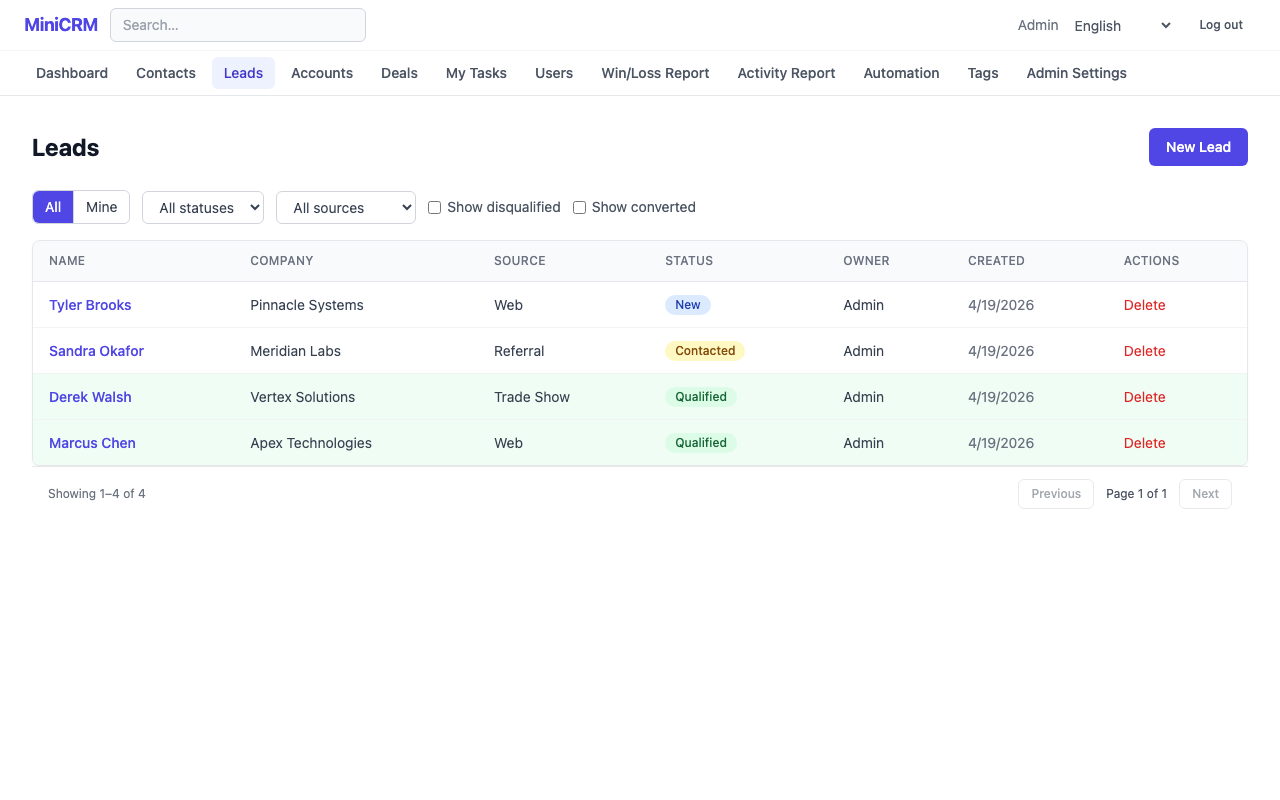
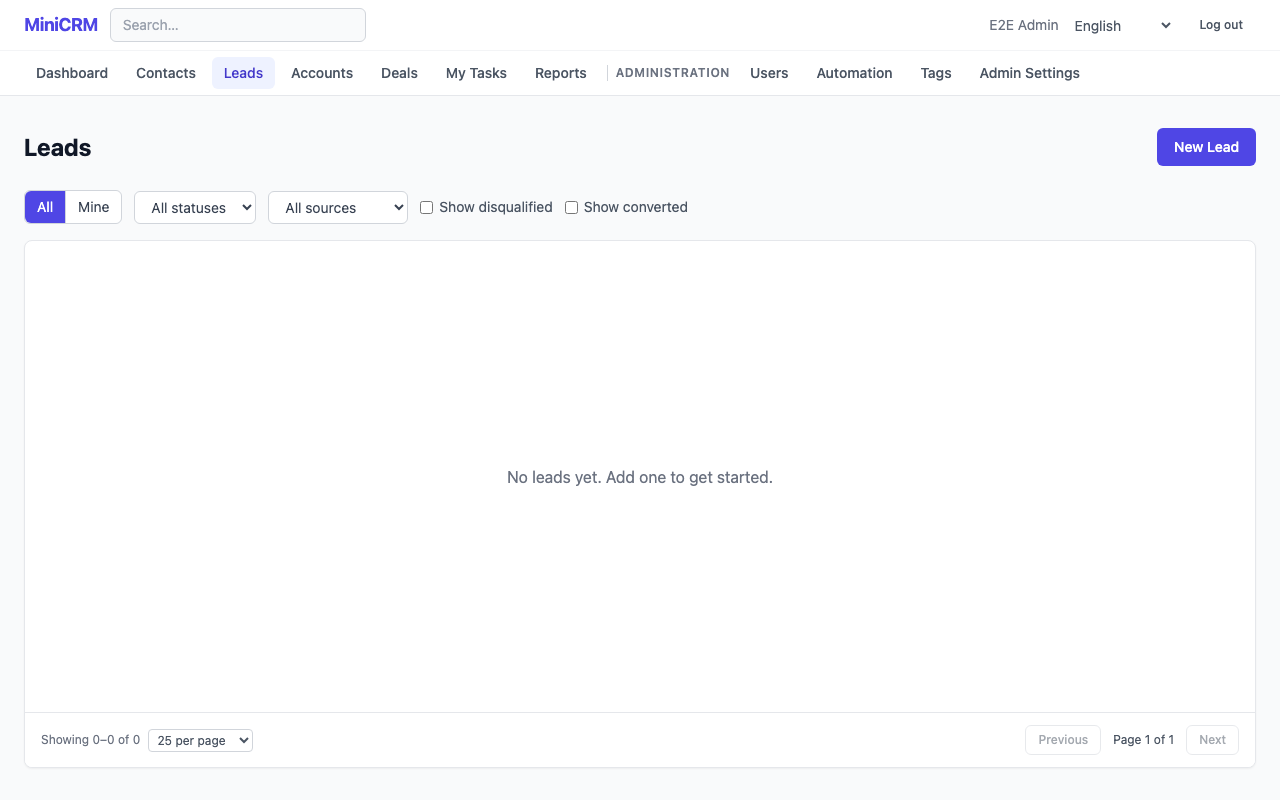
docs(MINCRM-361): update README and regenerate all 10 screenshots for features shipped since April 21
Regenerated all 10 docs/screenshots via scripts/screenshot.ts against the current UI.
Added Implemented Features entries for MINCRM-349 (optimistic locking), MINCRM-351
(three-way merge UI), MINCRM-354 (localized server errors), MINCRM-352 (rich notes),
MINCRM-343 (full-viewport list layout), MINCRM-342 (always-visible pagination + page-size
selector), MINCRM-356 (custom branding), and MINCRM-353 (extended demo data).
Updated screenshot alt text and caption prose to match the new UI.
Updated demo data volume description to reflect notes, custom fields, and exchange rates.

diff --git a/README.md b/README.md
@@ -28,19 +28,27 @@ npm run seed:demo
 
 ### Dashboard
 
-![MiniCRM dashboard showing pipeline value, deal counts, and recent activity](docs/screenshots/01-dashboard.png)
+![MiniCRM dashboard showing pipeline value, deal counts by stage, and overdue task indicators](docs/screenshots/01-dashboard.png)
 
 ### Pipeline Board
 
-![Deals pipeline board with Kanban columns for each stage](docs/screenshots/05-deals-board.png)
+![Deals pipeline board with Kanban columns for each stage, deal cards with currency-formatted values](docs/screenshots/05-deals-board.png)
 
 ### Contacts
 
-![Contacts list with search and filter controls](docs/screenshots/02-contacts.png)
+![Contacts list with full-viewport scroll, always-visible pagination, and page-size selector](docs/screenshots/02-contacts.png)
 
 ### Leads
 
-![Leads list with status badges and conversion workflow](docs/screenshots/07-leads.png)
+![Leads list with full-viewport scroll layout and always-visible pagination](docs/screenshots/07-leads.png)
+
+### Contact Detail
+
+![Contact detail page showing rich notes editor, optimistic-lock version indicator, and activity timeline](docs/screenshots/03-contact-detail.png)
+
+### Admin Settings
+
+![Admin Settings page with custom branding section — logo upload, brand color, font, and powered-by badge controls](docs/screenshots/10-admin-settings.png)
 
 ## Tech Stack
 
@@ -324,12 +332,15 @@ npm run remove:demo
 
 Both scripts read database connection from `.env` (`DB_USER`, `DB_PASSWORD`, `DB_NAME`, `DB_HOST`, `DB_PORT`).
 
-Demo data volume:
+Demo data volume (MINCRM-353):
 
-- 2 accounts (Acme Corporation, Globex Industries)
-- 20 contacts (10 per account)
-- 10 deals across Prospecting, Qualification, Proposal, Negotiation, Closed Won, and Closed Lost stages
-- 15 activities (calls, emails, notes, meetings, tasks) linked to deals and contacts
+- 2 accounts (Acme Corporation, Globex Industries — with parent/child relationship)
+- 20 contacts (10 per account, with addresses, social URLs, and custom field values)
+- 11 deals across all pipeline stages, including multi-currency deals (USD and GBP) with custom probability overrides
+- Activities (calls, emails, notes, meetings, tasks) linked to deals and contacts
+- 7 rich notes on contacts, accounts, and deals — covering team-visible and private visibility
+- Custom field definitions: LinkedIn URL, Lead Source Detail (select), Contract Signed Date, Estimated ARR; values populated on representative records
+- Exchange rate table seeded with USD, EUR, GBP, CAD, AUD, JPY, CHF rates
 
 All demo records have `is_demo = true`. The remove script deletes **only** rows where `is_demo = true`, so real data is never affected. Running the seed script twice is a no-op if demo data already exists.
 
@@ -359,6 +370,29 @@ All demo records have `is_demo = true`. The remove script deletes **only** rows 
 - Full CRUD REST API at `/api/leads`; conversion endpoint at `POST /api/leads/:id/convert`; status history at `GET /api/leads/:id/status-history`
 - Database migrations: `020_create_leads.js` adds `leads` and `lead_status_history` tables; adds `source_lead_id` FK column to `contacts` and `deals`
 
+### Optimistic Locking (MINCRM-349)
+
+- Every contact, account, deal, lead, and activity carries a `version` integer that increments on each update
+- PATCH endpoints require the client to echo back the current `version`; if the record was updated by someone else in the meantime the server returns **409** with the full current state in the response body, preventing silent overwrites
+- The version field is included in all read responses so the client always has the latest value after any successful save
+- Database migration: `048_add_version_to_all_entities.js` adds `version INTEGER NOT NULL DEFAULT 1` to `contacts`, `accounts`, `deals`, `leads`, and `activities`
+
+### Three-Way Merge UI for Conflicts (MINCRM-351)
+
+- When a 409 optimistic-lock conflict occurs on any edit form, a **Field Merge Modal** opens instead of showing a generic error
+- The modal presents a field-by-field comparison table with three value columns: **Original** (value when the page was opened), **Their change** (current server state), and **Your change** (what the user tried to save)
+- Conflicts where both sides changed the same field differently are highlighted and require the user to pick a value via radio buttons; non-conflicting changes are auto-resolved
+- String fields show character-level inline diffs (red strikethrough for removed text, green highlight for added text)
+- After resolving all conflicts the user clicks **Save resolved** to resubmit with the merged values, or **Discard my changes** to abandon the edit
+- Component: `client/src/components/FieldMergeModal.tsx`
+
+### Localized Server Error Messages (MINCRM-354)
+
+- Server error codes (e.g. `CONTACT_EMAIL_DUPLICATE`, `OPTIMISTIC_LOCK_CONFLICT`, `STAGE_HAS_OPEN_DEALS`) are translated to user-friendly messages in the active locale instead of showing raw code strings
+- The `resolveApiError()` utility in `client/src/utils/apiError.ts` looks up `errors.<CODE>` in the i18n catalog and falls back to `errors.generic` for unrecognized codes
+- All five supported locales (`en`, `zh-Hans`, `es`, `fr`, `de`) include translations for every domain error code
+- No API or migration changes — purely a client-side presentation improvement
+
 ### Contacts
 
 - List all contacts in a sortable table with owner column
@@ -373,6 +407,20 @@ All demo records have `is_demo = true`. The remove script deletes **only** rows 
 - Social profile URLs: `linkedin_url`, `twitter_x_url` — collapsible section in the form, displayed as clickable links on detail page when populated
 - Contact merge: merge two contact records into one via `POST /api/contacts/:id/merge`; winner survives, loser is deleted; per-field value choices; activities and deal links re-routed to winner; merged audit entry written
 - Full CRUD REST API at `/api/contacts`; merge endpoint: `POST /api/contacts/:id/merge`
+
+### Full-Viewport List Layout (MINCRM-343)
+
+- All list pages (Contacts, Accounts, Leads, Activities) use a full-viewport layout where the table scrolls internally and the nav bar, filters, and pagination remain fixed on screen
+- The table container fills all remaining vertical space between the filter bar and the pagination strip — no page-level scrollbar
+- Sticky table header stays visible while scrolling through long record lists
+- Layout is implemented with Tailwind flex column utilities (`h-screen`, `flex-1`, `min-h-0`, `overflow-auto`) applied consistently across all list pages
+
+### Always-Visible Pagination with Page-Size Selector (MINCRM-342)
+
+- Every list page shows a persistent pagination strip at the bottom of the viewport — it is never pushed off screen regardless of how many rows are loaded
+- The left side of the strip shows a record count summary ("Showing X–Y of Z records") and a **Rows per page** dropdown (10 / 25 / 50 / 100); changing the page size resets to page 1
+- The right side shows Previous / Next navigation buttons and a "Page N of M" indicator
+- Implemented in the shared `Pagination` component (`client/src/components/ui/Pagination.tsx`) used by all list pages
 
 ### Accounts
 
@@ -401,6 +449,21 @@ All demo records have `is_demo = true`. The remove script deletes **only** rows 
 - Pipeline stages are admin-configurable (see [Custom Pipeline Stages](#custom-pipeline-stages)); default stages are Prospecting → Qualification → Proposal → Negotiation → Closed Won / Closed Lost
 - Full CRUD REST API at `/api/deals`
 - Database migrations: `004_create_deals.js`, `005_create_deal_contacts.js`
+
+### Rich Notes on Entity Detail Pages (MINCRM-352)
+
+- Contact, Account, Deal, and Lead detail pages include a **Notes** section with a rich-text composer (Lexical editor)
+- Notes support an optional title, a body with inline formatting, and a **visibility** setting: **Team** (visible to all users, default), **Private** (visible only to the creator and admins), or **Public**
+- Private notes authored by another user appear with the body masked — the card shows the author and timestamp but not the content
+- Notes are paginated; each entity's notes feed is independent
+- Notes support soft-delete: deleted notes are removed from the feed but retained in the audit log
+- Audit events (`note_created`, `note_updated`, `note_deleted`, `note_visibility_changed`) are written in the same transaction as the note change; private note bodies appear as `[private note]` in the audit log
+- API endpoints:
+  - `GET /api/{entityType}/{entityId}/notes` — list notes (paginated)
+  - `POST /api/{entityType}/{entityId}/notes` — create a note (auth required)
+  - `PATCH /api/{entityType}/{entityId}/notes/:noteId` — update a note (creator or admin only)
+  - `DELETE /api/{entityType}/{entityId}/notes/:noteId` — soft-delete a note (creator or admin only)
+- Database migration: `044_create_notes.js` creates the `notes` table with `entity_type`, `entity_id`, `title`, `body` (Lexical JSON), `visibility`, `deleted_at` (soft-delete), `created_by`, and `updated_by` columns; migration `045_extend_audit_event_types.js` adds note event types to the audit log enum
 
 ### Activities & Tasks
 
@@ -440,6 +503,19 @@ All demo records have `is_demo = true`. The remove script deletes **only** rows 
   - `PATCH /api/settings/default-language` — admin only, body `{ language }`, returns `{ language }`
 - Shared Zod schema `settingsSchema.ts` in `/shared/schemas/` defines `SUPPORTED_LOCALES` and the request/response schemas; locale display names are stored in the i18n translation files under `settings.languages.*`
 - Database migration: `008_create_system_settings.js` creates the `system_settings` table and seeds the default row (`default_language = 'en'`)
+
+### Custom Branding (MINCRM-356)
+
+- Admins can configure organisation-wide branding from the **Admin Settings** page: upload a logo and favicon, set a primary brand colour, choose a Google Font family, enter a company name, and optionally show a "Powered by MiniCRM" badge
+- A live preview panel on the settings page reflects changes before saving
+- The brand colour picker includes a WCAG AA contrast ratio indicator; the server derives a matching text colour (white or dark grey) based on relative luminance so branded buttons always remain readable
+- Branding is distributed to the client on app load via `BrandingContext`; the full CSS colour scale (50–900 shades) is injected as CSS custom properties and consumed via the Tailwind `primary-*` colour utilities, so every use of `bg-primary-*`, `text-primary-*`, etc. picks up the brand colour automatically
+- Custom fonts are loaded from Google Fonts and applied globally; the page font updates immediately without a reload
+- API endpoints (admin only):
+  - `GET /api/settings/branding` — public, returns current branding config or `{ branding: null }` if not configured
+  - `PUT /api/settings/branding` — admin only, partial merge of branding fields
+  - `DELETE /api/settings/branding` — admin only, resets all branding to defaults
+- Branding is stored as a JSON value in the `system_settings` table under the `branding` key; no dedicated migration required
 
 ### Navigation Layout
 
